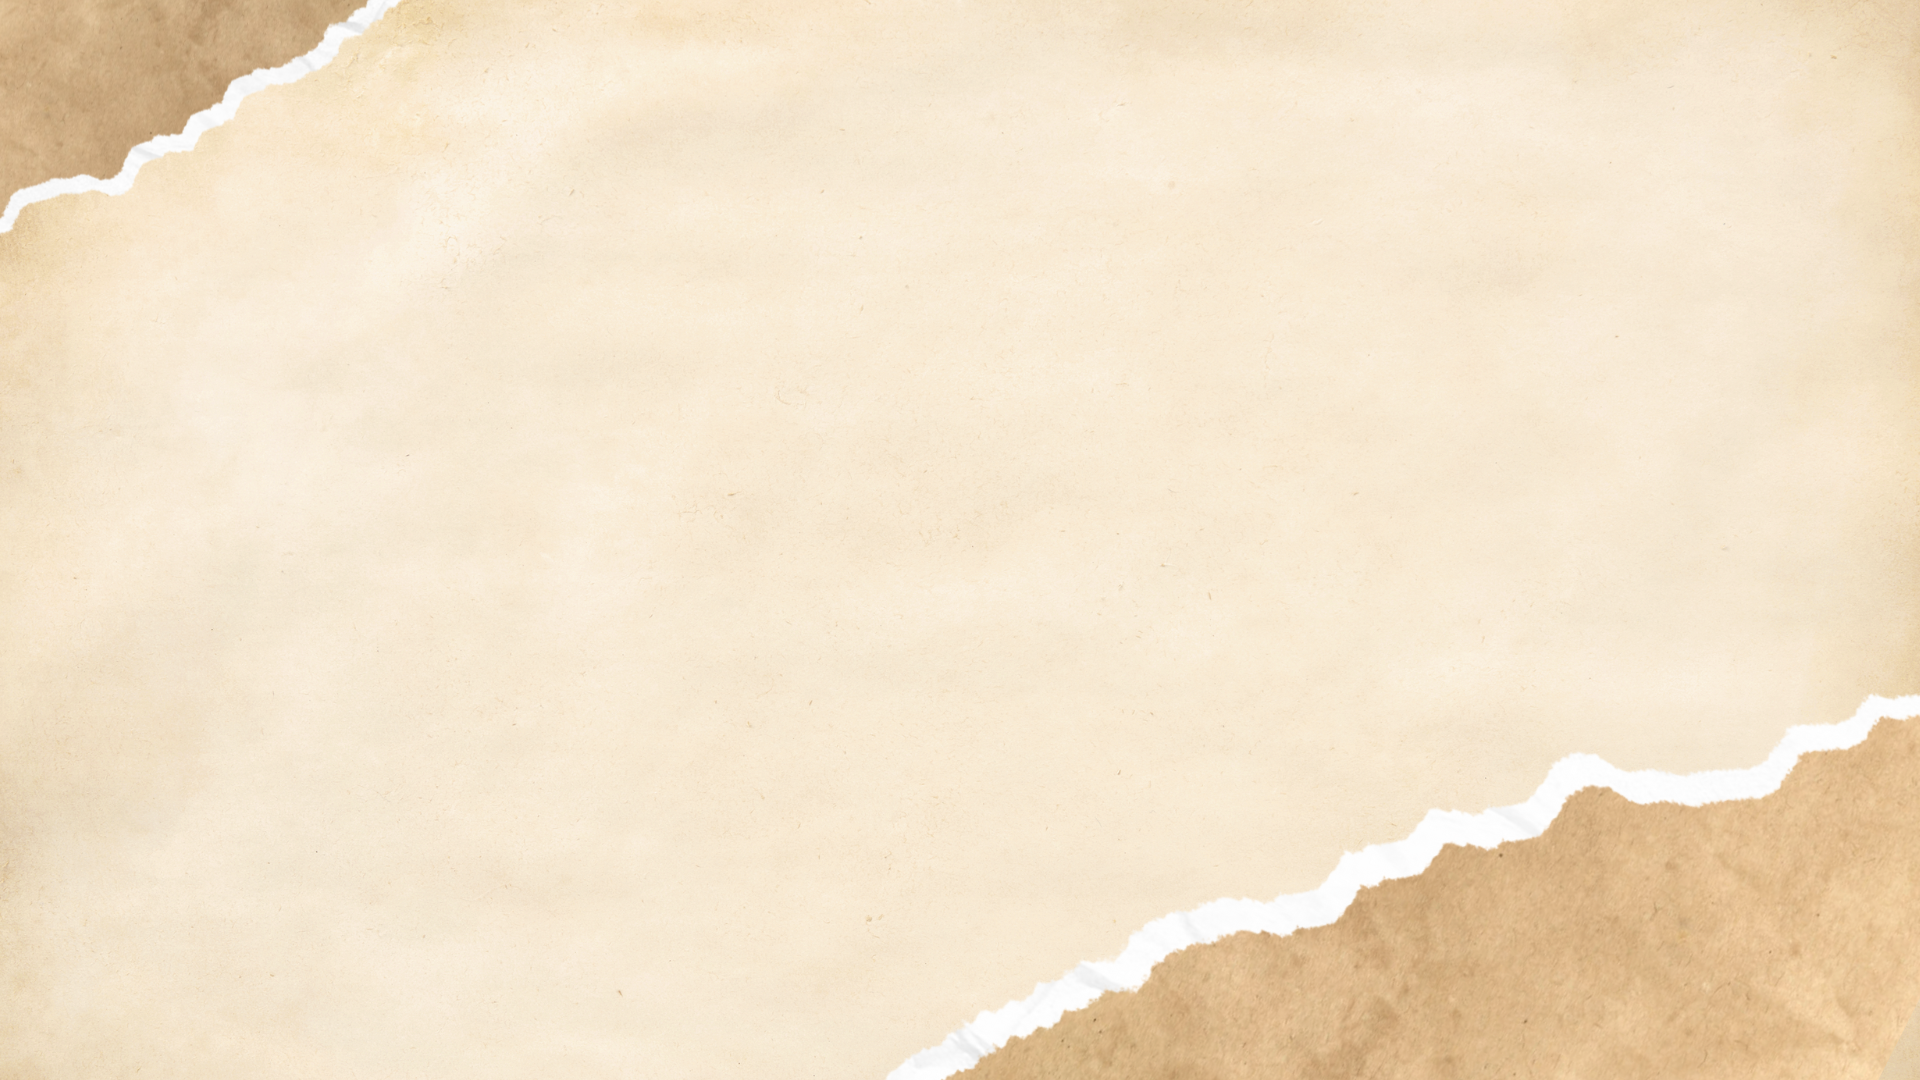
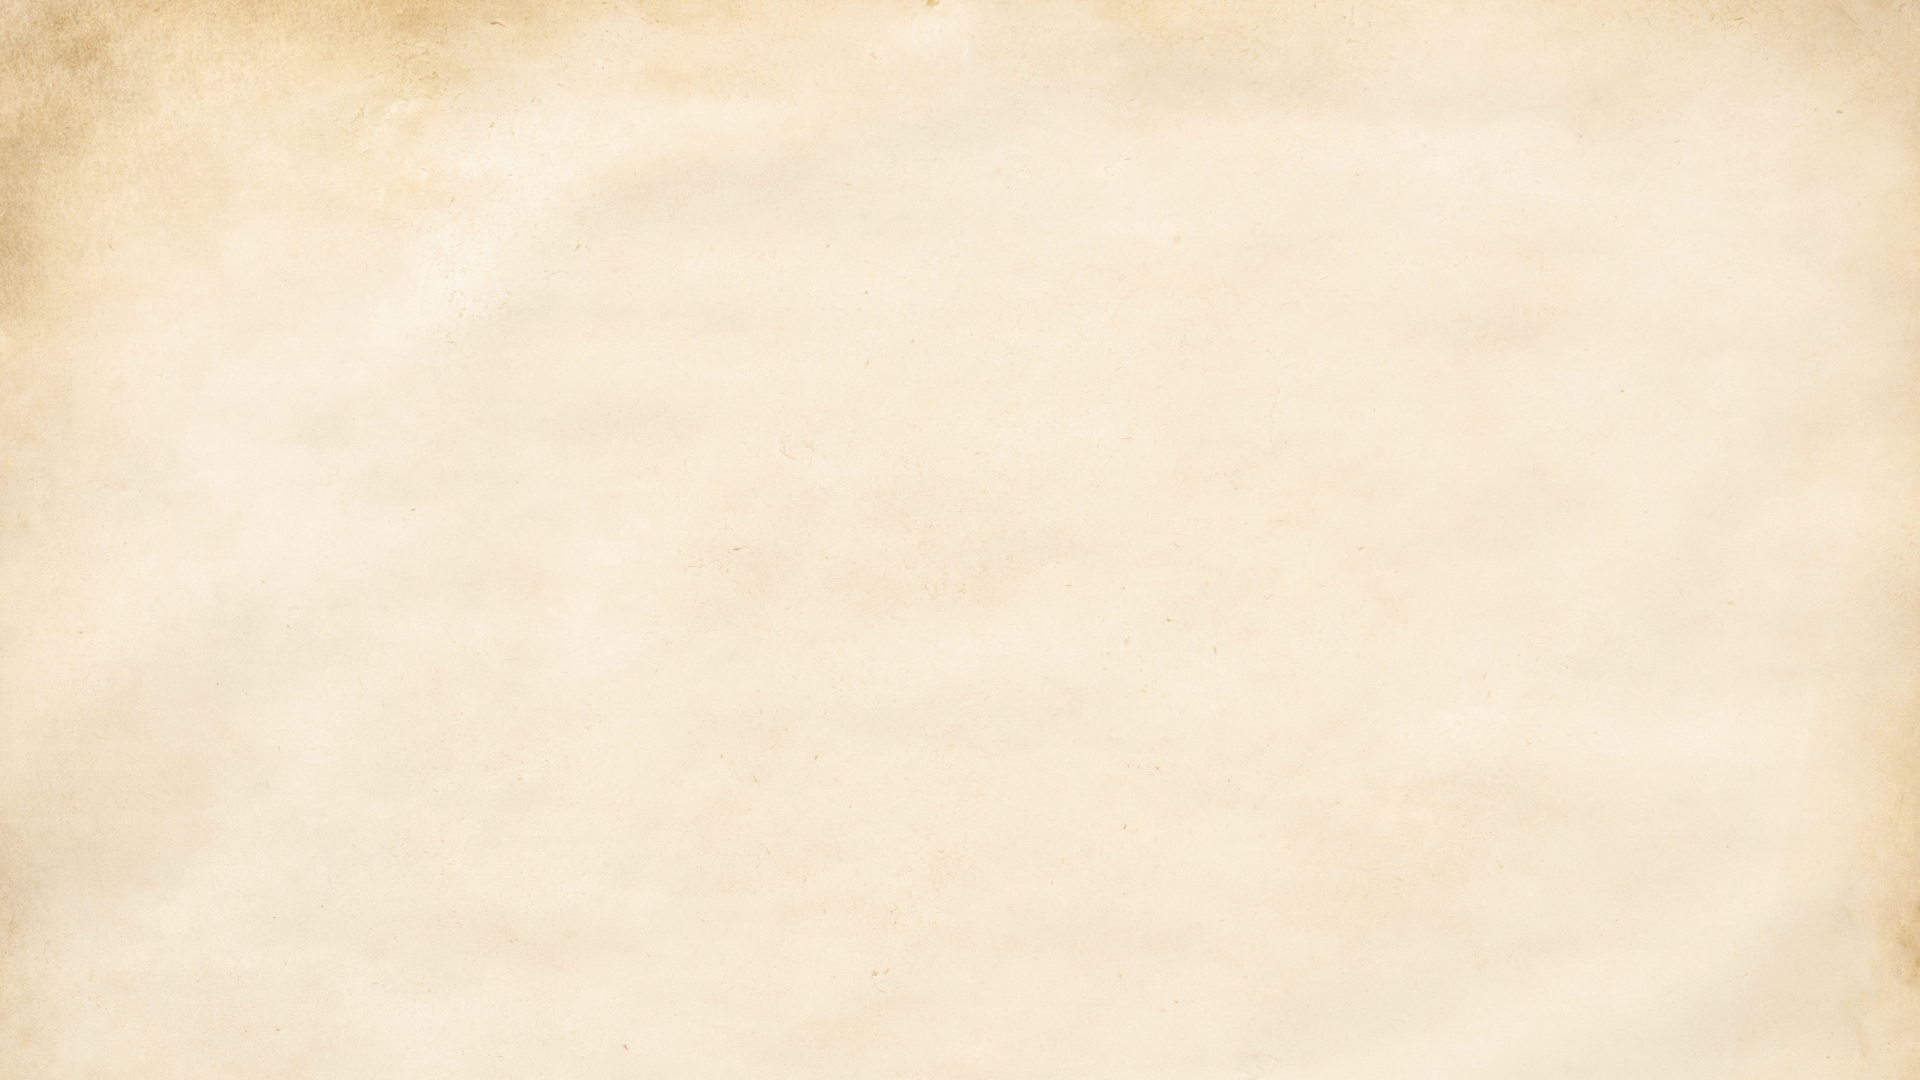
Refactor Flask app structure and add new HTML templates for translation and alphabet pages; include JavaScript for image upload and translation functionality; add CSS for styling and background images.

diff --git a/frontend/static/styles.css b/frontend/static/styles.css
@@ -1,34 +1,93 @@
+/*Fonts     */
+@import url('https://fonts.googleapis.com/css2?family=Playfair+Display+SC:wght@400;700&display=swap');
+@import url('https://fonts.googleapis.com/css2?family=Schoolbell&display=swap');
+@import url('https://fonts.googleapis.com/css2?family=Mochiy+Pop+One&display=swap');
 body {
-    height: 100vh;
-    width: auto;
     margin: 0;
     padding: 0;
-    font-family: 'Times New Roman';
-    display: flex;
-    background-image: url('assets/Background.png');
-    flex-direction: column;
-    overflow: auto;
+    font-family: Arial, sans-serif;
+    min-height: 100vh;
+    background-image: url('assets/Background1.png'); /* Use your main paper image */
+    background-size: cover; /* Or 'contain' depending on your goal */
+    background-position: center;
+    background-attachment: fixed;
+    background-color: #f5e4c3; /* Use a matching base color */
+    overflow:hidden;
 }
-.translate-button {
+.hero-section {
+   margin-top: -5vh;
+}
+.title, .title-description,.page-header h1 {
+    /* Use the font family you imported */
+    font-family: 'Playfair Display SC', serif;
+    /* Set the desired large size */
+    font-size:80px !important; 
+    /* Include other styling */
+    color: #c29c6d; 
+    text-align: center;
+}
+.title-description {
+    font-size: 24px !important; 
+    margin-top: -8.5vh;
+    padding-bottom: 30px;
+}
+
+.translate-button,.translate-button2,.alphabetButton,.input-button {
     /* This button is now a container for the image */
     width: 480px; /* Estimated width of your image */
     height: 133px; /* Estimated height of your image */
-    
-    /* Set the image as the button's background */
-    background-image: url('assets/TranslateButton.png');
+    /* Remove default button styles that conflict with the image */
+    background-color: transparent;  /* Ensure button color doesn't hide image */
     background-size: contain;       /* Ensure the image is fully visible */
     background-repeat: no-repeat;
     background-position: center;
-    
-    /* Remove default button styles that conflict with the image */
-    background-color: transparent;  /* Ensure button color doesn't hide image */
     border: none;                   /* Remove border */
     box-shadow: none;               /* Remove box shadow */
     padding: 0;                     /* Remove default padding */
-    
+ 
     cursor: pointer;
     margin-top: 20px;
     transition: transform 0.1s;
+}
+
+.translate-button, .translate-button2{
+    /* Set the image as the button's background */
+    background-image: url('assets/TranslateButton.png');
+}
+.translate-button2{
+    width: 480px; /* Estimated width of your image */
+    height: 70px !important; /* Estimated height of your image */
+}
+
+.alphabetButton{
+    /* Set the image as the button's background */
+    background-image: url('assets/AlphabetButton.png');
+}
+
+
+.input-button {
+    /* This button is now a container for the image */
+    width: 480px; /* Estimated width of your image */
+    height: 70px; /* Estimated height of your image */
+    
+    /* Set the image as the button's background */
+    background-image: url('assets/UploadButton.png');
+ 
+}
+/*hover effects*/
+.alphabetButton:hover{
+    transform: scale(1.05);
+    background-image: url('assets/HoverButton3.png');
+}
+.input-button:hover {
+    transform: scale(1.05);
+    background-image: url('assets/HoverButton2.png');
+}
+
+.translate-button,.translate-button2:hover{
+
+    transform: scale(1.05);
+    background-image: url('assets/HoverButton1.png');
 }
 
 
@@ -39,22 +98,10 @@ div {
     align-items: center;
 }
 
-/*title descirption edits*/
-
-.title-desciption {
-    padding-bottom: 30px;
-}
-
-.title {
-    font-size: 36px;
-    font-weight: bold;
-    text-align: center;
-}
-
-
 /*input section edits*/
 .input-section {
     padding-bottom: 30px;
+    margin-top: -6.5vh;
 }
 
 .image-checker {
@@ -65,10 +112,17 @@ div {
 .output-section {
     justify-content: space-evenly;
     padding-bottom: 30px;
+    
+    /*font for output text*/
+    font-family: 'schoolbell', serif;
+    font-size:250%;
+    color:#996f3c;
 }
 .image-output {
     width: 600px;
-    height: 400px;
+    min-height: 300px;
+    max-height: 40vh;
+    height: auto;
     background-image:url('assets/InsertBox.png');
     background-size:cover;
     background-position: center;
@@ -81,14 +135,20 @@ div {
 
 .image-output img{
     max-width: 100%;
+    max-height: 100%;
     height: auto;
     display: block;
 }
 
 .text-output {
+    margin-top: -2.5vh;
     width: 300px;
-    height: 50px;
-    border: 2px solid black;
-    background-color: grey;
+    height: 150px;
+    background-image:url('assets/InsertBox.png');
+    background-size: 100% 100%;
+    background-repeat:no-repeat;
+    padding: 10px;
+    box-sizing: border-box;
+    text-align: left;
     overflow: hidden;
 }

diff --git a/frontend/templates/translate.html b/frontend/templates/translate.html
@@ -9,30 +9,21 @@
         </title>
     </head>
     <body>
-        <div class="title-description">
-                <p class="title">
-                    Sulat Baybayin
-                </p>
-                <p class="description">
-                    Upload your image below to translate!
-                </p>
-        </div>
+        <header class="hero-section">
+            <h1 class="title"> Sulat Baybayin</h1>
+            <p class="title-description">Upload Image to Translate</p>
+        </header>
         <div class="input-section">
             <input type="file" id="inputImage" accept="image/*" hidden>
             <button class="input-button" id="uploadButton">
-                Upload image
+                
             </button>
-            <div class="image-checker" id="imageChecker">
-                No Image Has Been Uploaded
-            </div>
-            <button class="translate-button" id="translateButton">
-            
-            </button>
+            <button class="translate-button2" id="translateButton"></button>
         </div>
         <div class="output-section">
 
             <div class="image-output" id="imageOutput">
-                
+            <h2> Insert An Image</h2>
             </div>
             <div class="text-output" id="textOutput">
 

diff --git a/frontend/templates/front.html b/frontend/templates/front.html
@@ -6,12 +6,7 @@
         <title> Sulat Baybayin - Home></title>
     </head>
     <body>
-        <nav class="main-nav">
-            <a href="{{ url_for ('index') }}"> Home</a>
-            <a href="{{ url_for ('translate') }}"> translate</a>
-            <a href="{{ url_for ('alphabet') }}"> alphabet</a>
-        </nav>
-
+       
         <header class="hero-section">
             <h1 class="title"> Sulat Baybayin</h1>
         </header>
@@ -20,10 +15,10 @@
             <a href="{{ url_for('translate') }}" class="cta-link">
                 <button class="translate-button" id="translateButton"></button>
             </a>
+            <a href="{{ url_for('alphabet') }}">
+            <button class="alphabetButton" id="alphabetButton"></button>
+            </a>.
             
-            <p class="learn-more">
-                Want to learn the script? View the full Baybayin alphabet <a href="{{ url_for('alphabet') }}">here</a>.
-            </p>
         </div>
     </body>
 </html>

diff --git a/frontend/static/javascript.js b/frontend/static/javascript.js
@@ -8,9 +8,6 @@ const textOutput = document.getElementById("textOutput");
 //temporary image
 let selectedFile = null;
 
-//file input
-uploadButton.addEventListener("click", () => inputImage.click());
-
 inputImage.addEventListener("change", () => {
   selectedFile = inputImage.files[0];
   
@@ -23,6 +20,10 @@ inputImage.addEventListener("change", () => {
     imageChecker.textContent = "No Image Has Been Uploaded";
     imageChecker.style.color = "red";
   }
+});
+//uplaod Button
+uploadButton.addEventListener("click", () => {
+  inputImage.click();
 });
 //translate now buttom
 translateButton.addEventListener("click", async () => {
@@ -69,4 +70,6 @@ translateButton.addEventListener("click", async () => {
     translateButton.disabled = false;
     translateButton.textContent = originalButtonText;
   }
-});
+}
+
+);

diff --git a/frontend/templates/alphabet.html b/frontend/templates/alphabet.html
@@ -9,11 +9,7 @@
         </title>
     </head>
    <body>
-    <nav class="main-nav">
-            <a href="{{ url_for ('index') }}"> Home</a>
-            <a href="{{ url_for ('translate') }}"> translate</a>
-            <a href="{{ url_for ('alphabet') }}"> alphabet</a>
-    </nav>
+   
     <header class="page-header">
         <h1> The Baybayin Script</h1>
     </header>
